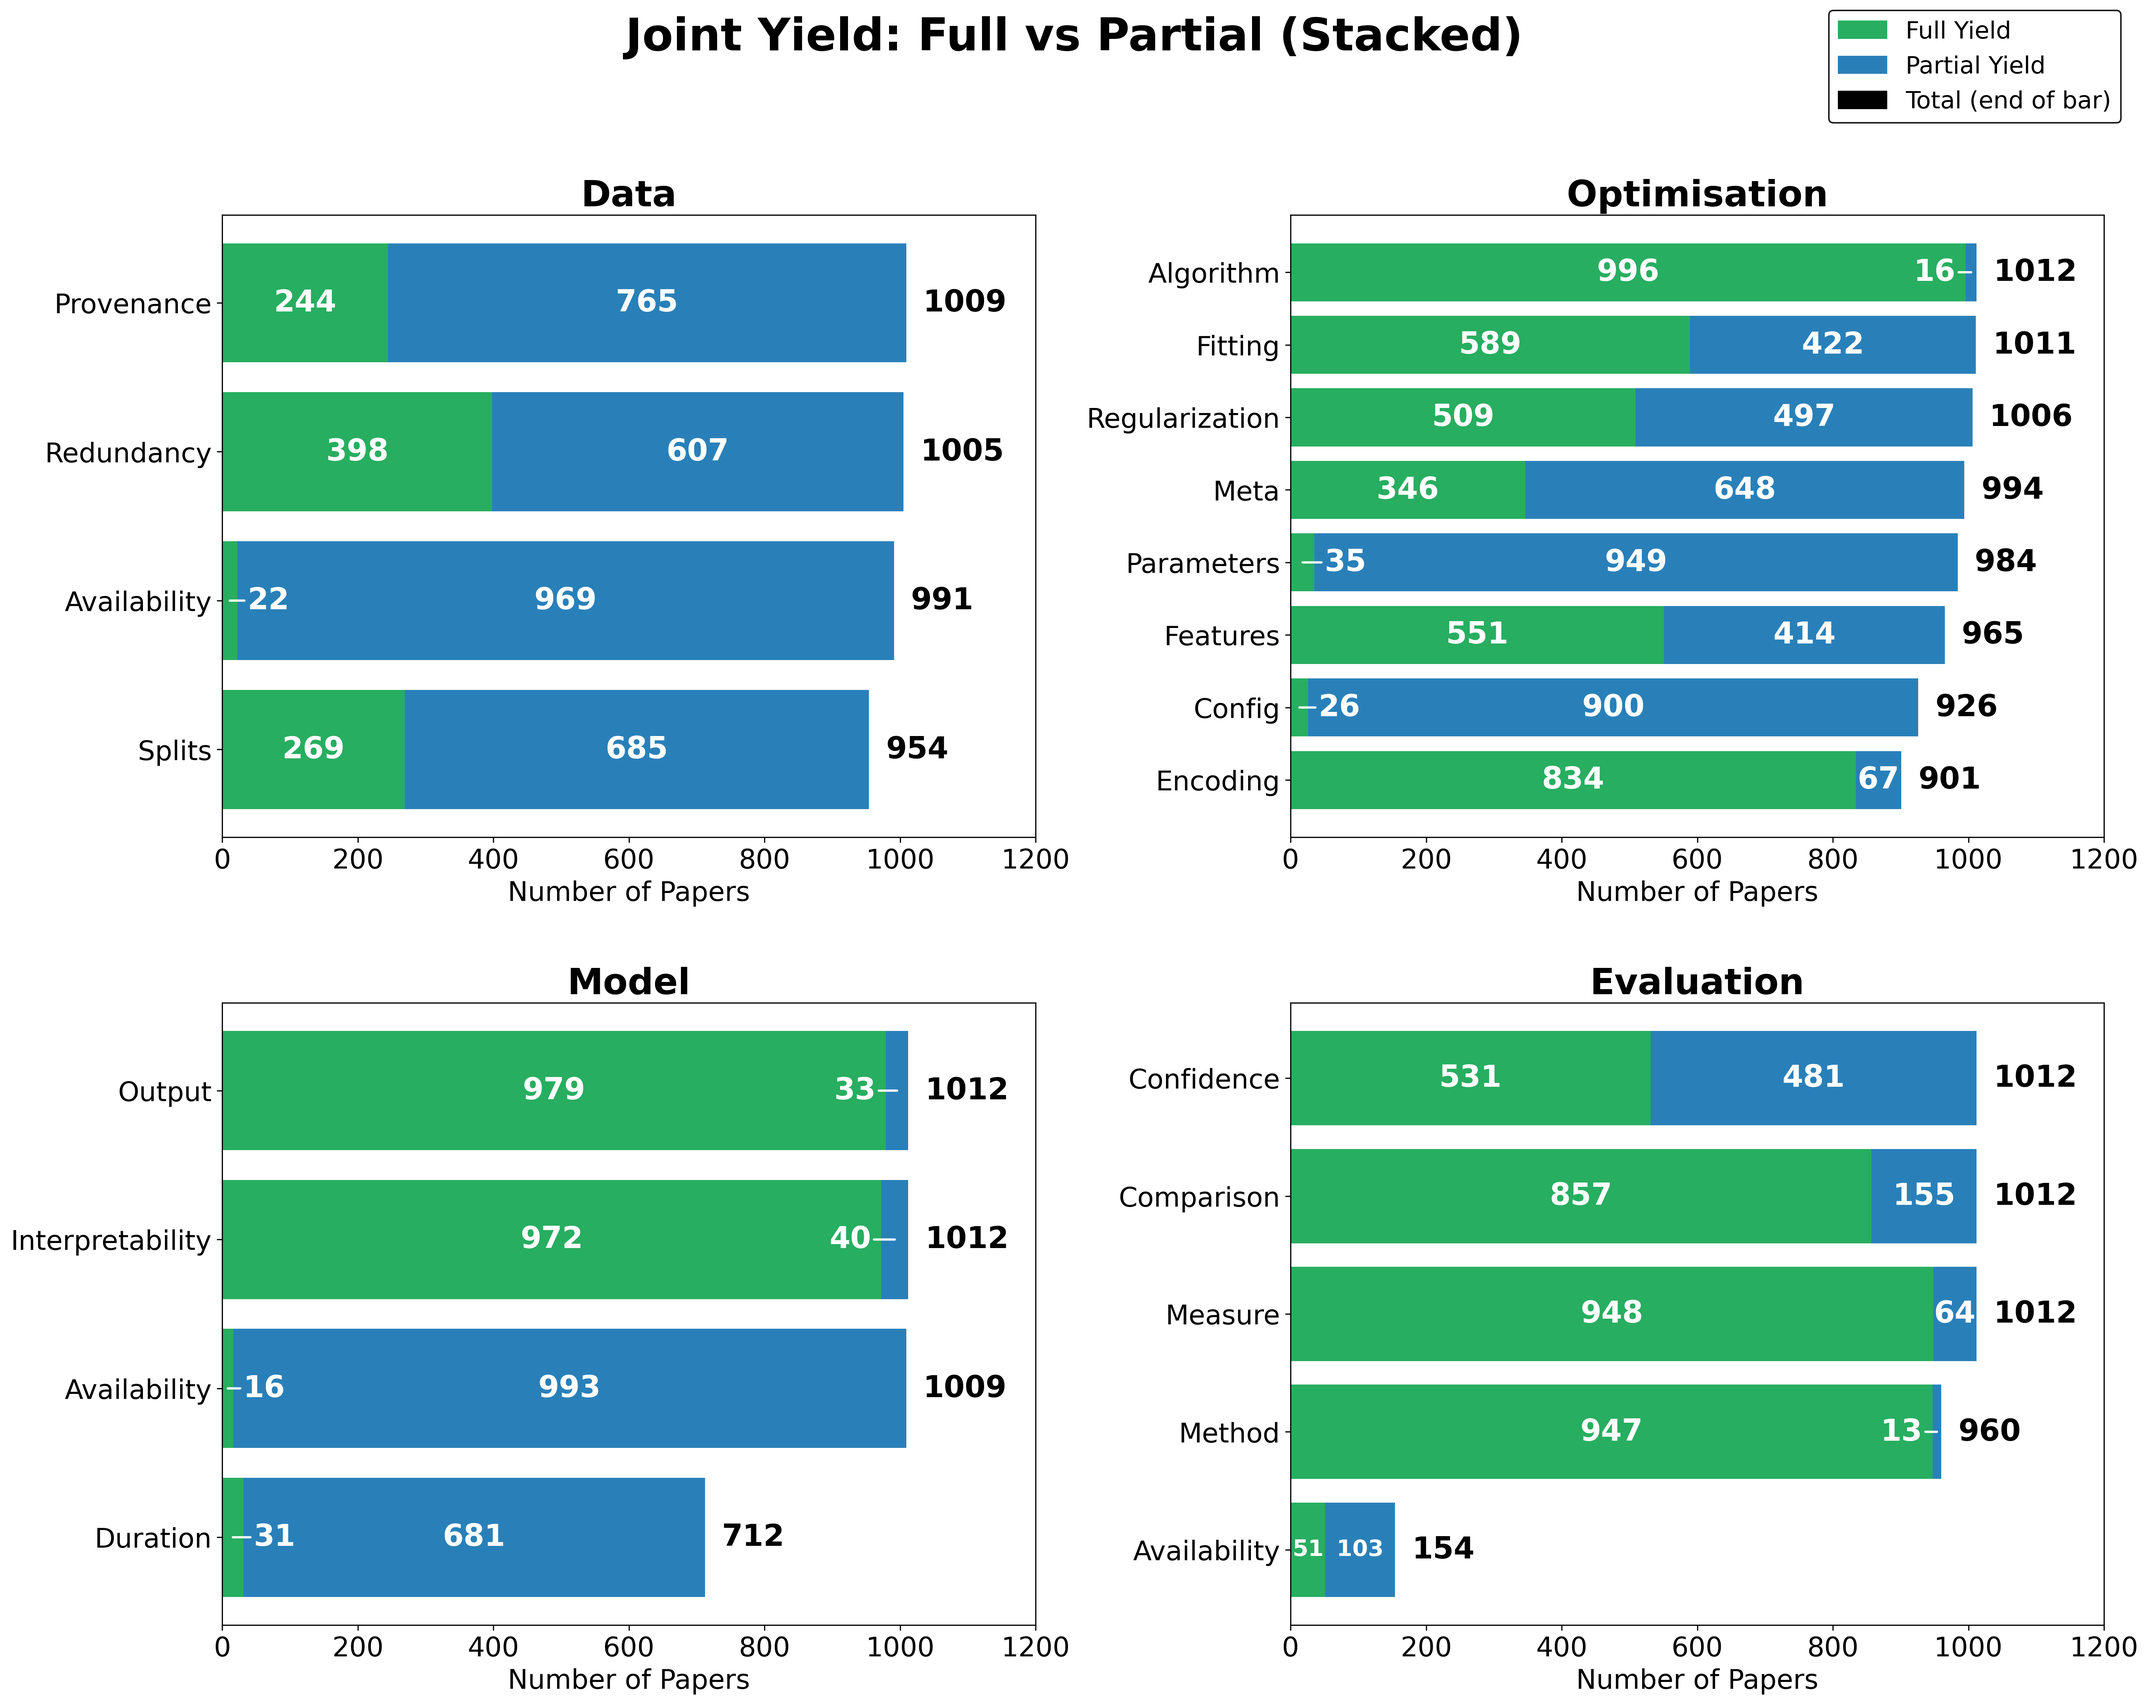
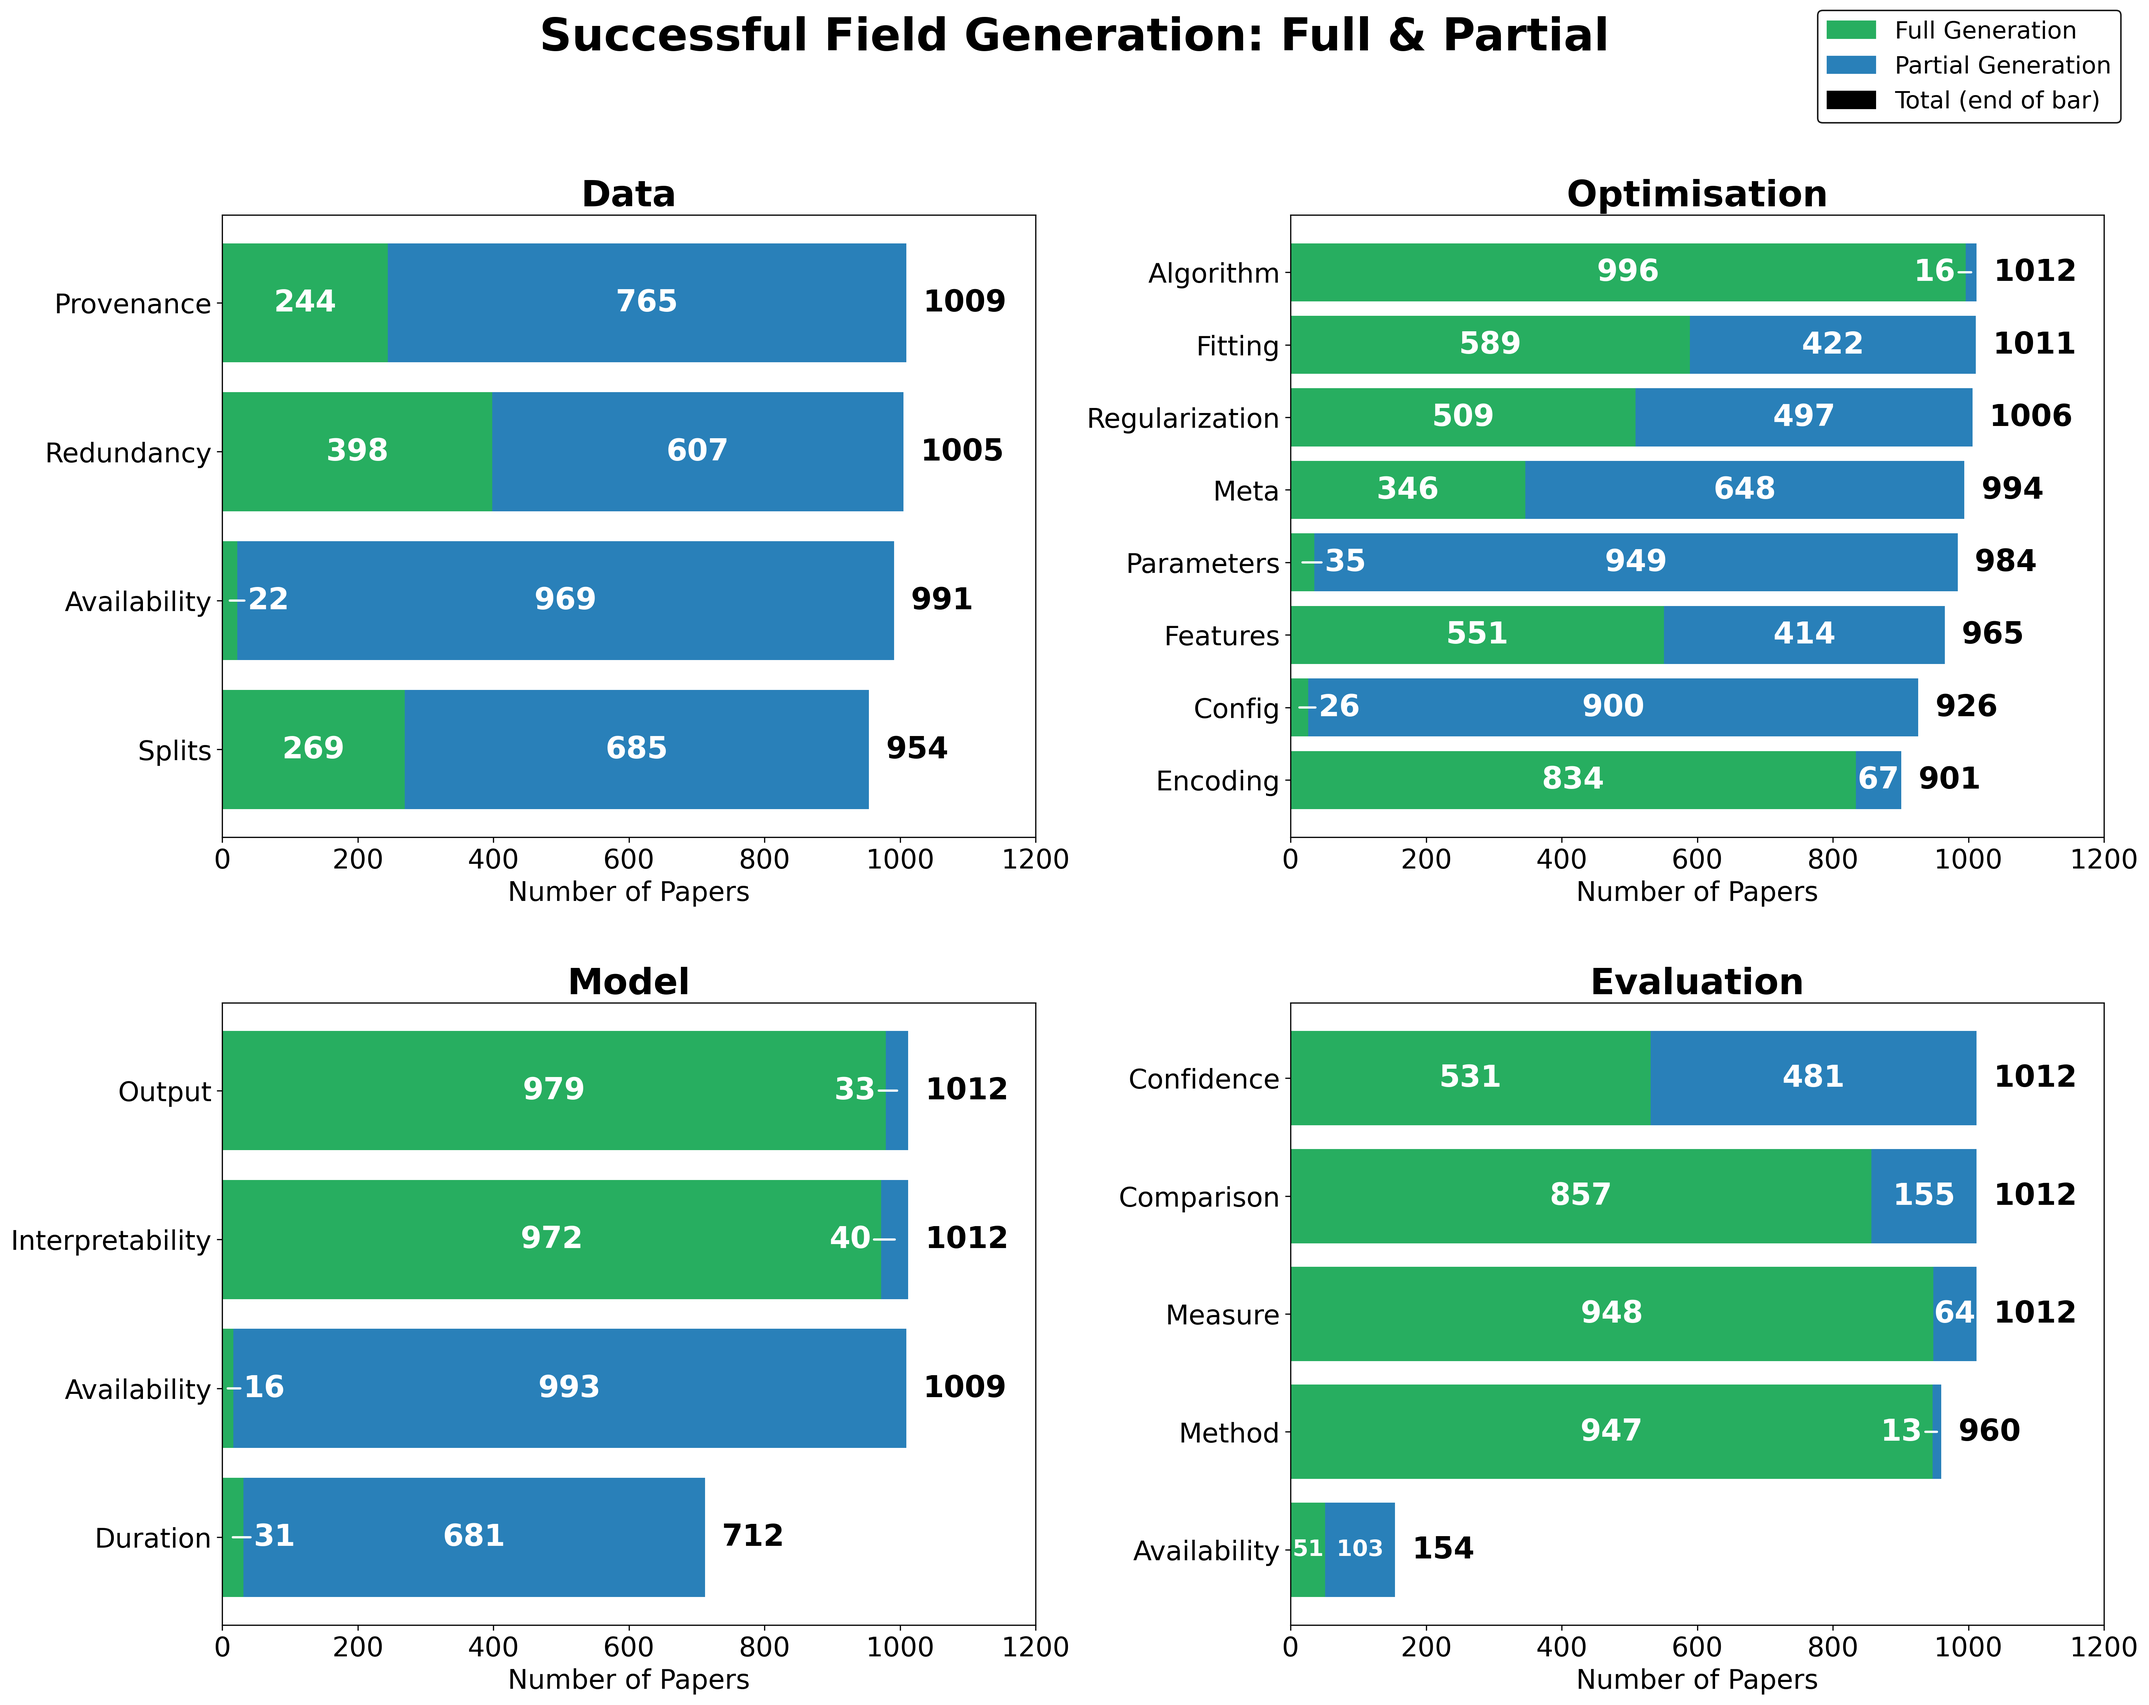
Graphing panels finalised

Changed region(s): [[0.2493, 0.0, 0.748, 0.031], [0.8415, 0.0, 0.9973, 0.0621]]

diff --git a/Publication_Figures/generate_graph_panels.py b/Publication_Figures/generate_graph_panels.py
@@ -265,8 +265,8 @@ def create_joint_stacked_plot(data_df, title_suffix, xlabel, filename):
 
     # Single figure-level legend at top right
     import matplotlib.patches as mpatches
-    full_patch = mpatches.Patch(color='#27AE60', label='Full Yield')
-    partial_patch = mpatches.Patch(color='#2980B9', label='Partial Yield')
+    full_patch = mpatches.Patch(color='#27AE60', label='Full Generation')
+    partial_patch = mpatches.Patch(color='#2980B9', label='Partial Generation')
     total_patch = mpatches.Patch(color='black', label='Total (end of bar)')
     fig.legend(handles=[full_patch, partial_patch, total_patch],
                loc='upper right', fontsize=16, bbox_to_anchor=(0.99, 0.99),
@@ -398,7 +398,8 @@ if __name__ == "__main__":
         print("--- Plot 5: Joint Stacked Yield ---")
         create_joint_stacked_plot(
             df,
-            'Joint Yield: Full vs Partial (Stacked)',
+            'Successful Field Generation: Full & Partial',
+
             'Number of Papers',
             'graph_joint_stacked_yield.png'
         )
